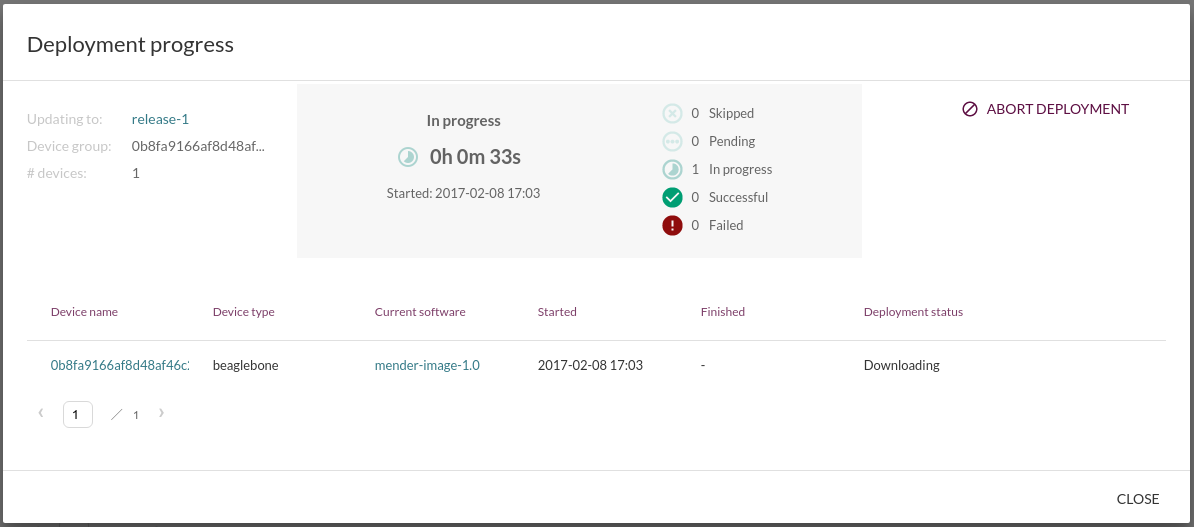
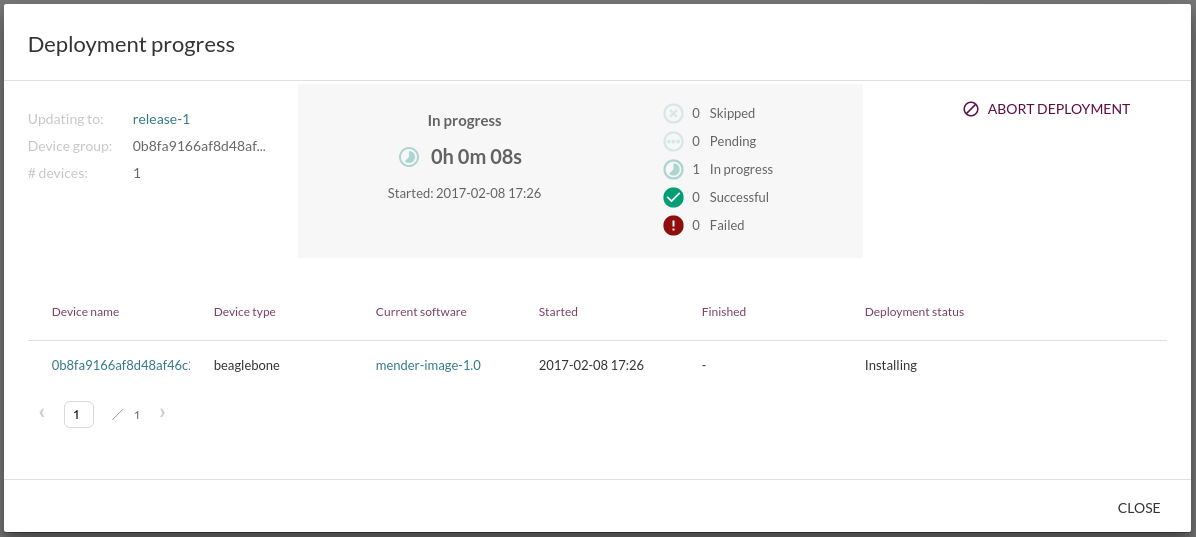
update screenshot and networking notes
(cherry picked from commit d50114c8023f4bd2aadba26432c23508148ef393)

diff --git a/01.Getting-started/04.Deploy-to-physical-devices/docs.md b/01.Getting-started/04.Deploy-to-physical-devices/docs.md
@@ -34,6 +34,9 @@ a SD card to store the OS, so you will need one SD card
 The BeagleBone Black needs to have network set up
 so it can connect directly to your workstation
 (where you have the Mender server running).
+
+! By default the Mender client will use ports **443** and **9000** to connect to the server. You can test the connection from your client later with networking tools like `telnet`.
+
 If you have one BeagleBone Black, you could connect your
 workstation and the device using a direct
 Ethernet cable and use static IP addresses at both ends.
@@ -309,7 +312,7 @@ Select the Artifact you just uploaded and **All devices**, then
 ## See the progress of the deployment
 
 As the deployment progresses, you can click on it to view more details about the current status across all devices.
-In the example below, we can see that a BeagleBone is downloading the update.
+In the example below, we can see that a BeagleBone is installing the update.
 
 ![Mender UI - Deployment progress - BeagleBone Black](deployment_report_bbb.png)
 
